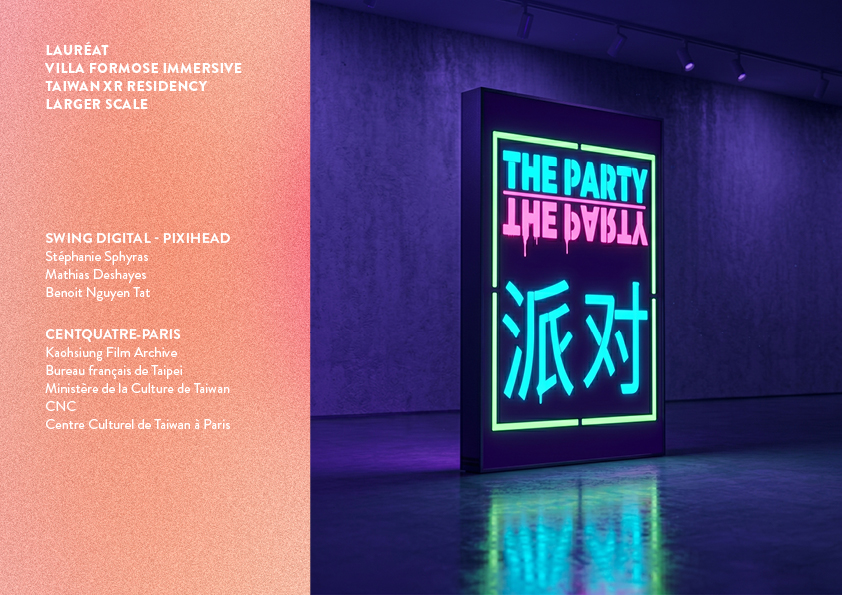
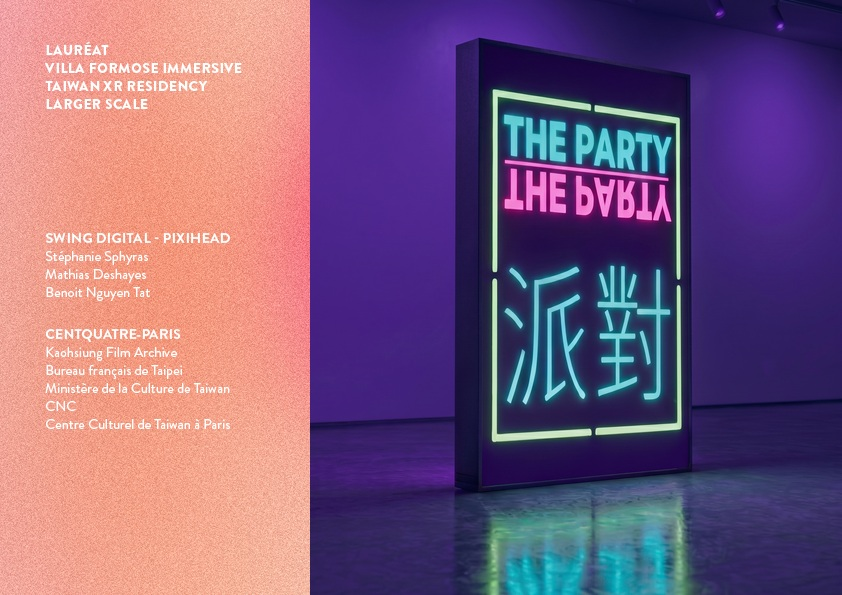
chore(pages): publier la recette depuis main 4e31930

diff --git a/css/style.css b/css/style.css
@@ -4569,6 +4569,9 @@ main > .media-transcript {
     gap: var(--space-sm);
     padding: 0 var(--slide-pad-x) var(--slide-pad-y);
 }
+.page56__content--without-paintings {
+    grid-template-columns: 1fr;
+}
 .page56__paintings {
     display: flex;
     gap: var(--space-sm);
@@ -4602,6 +4605,10 @@ main > .media-transcript {
     margin: 0;
     text-align: left;
     text-transform: none;
+}
+.page56__bio--solo {
+    width: min(100%, 52rem);
+    justify-self: center;
 }
 .page56__bio p:first-child {
     font-size: clamp(1.15rem, 1.75vw, 1.45rem);
@@ -4680,9 +4687,8 @@ main > .media-transcript {
         min-height: 40vh;
     }
 }
-/* Export de la cliente (toulouse-lautrec-2) : galerie justifiee, chaque photo entiere. Les sept photos etaient en
-   object-fit: cover dans des cases egales (22 a 52 % de rognage). La grille compte 600 colonnes fines ; chaque photo
-   en occupe une part proportionnelle a son ratio natif : meme hauteur dans la rangee, rangee pleine largeur. */
+/* Export de la cliente (l1.jpg) : galerie justifiee de six photos entieres. La grille compte 600 colonnes fines ;
+   chaque photo en occupe une part proportionnelle a son ratio natif, sur deux rangees de trois photos. */
 .page54__mosaic {
     flex: none;
     grid-template-columns: repeat(600, minmax(0, 1fr));
@@ -4700,13 +4706,12 @@ main > .media-transcript {
     height: auto;
     object-fit: contain;
 }
-.page54__photo:nth-child(1) { grid-column: span 165; }
-.page54__photo:nth-child(2) { grid-column: span 165; }
-.page54__photo:nth-child(3) { grid-column: span 105; }
-.page54__photo:nth-child(4) { grid-column: span 165; }
-.page54__photo:nth-child(5) { grid-column: span 248; }
-.page54__photo:nth-child(6) { grid-column: span 159; }
-.page54__photo:nth-child(7) { grid-column: span 193; }
+.page54__photo:nth-child(1) { grid-column: span 228; }
+.page54__photo:nth-child(2) { grid-column: span 228; }
+.page54__photo:nth-child(3) { grid-column: span 144; }
+.page54__photo:nth-child(4) { grid-column: span 228; }
+.page54__photo:nth-child(5) { grid-column: span 227; }
+.page54__photo:nth-child(6) { grid-column: span 145; }
 @media (max-width: 768px) {
     .page54__mosaic {
         grid-template-columns: repeat(600, minmax(0, 1fr));
@@ -4716,9 +4721,8 @@ main > .media-transcript {
     .page54__photo:nth-child(2) { grid-column: span 300; }
     .page54__photo:nth-child(3) { grid-column: span 233; }
     .page54__photo:nth-child(4) { grid-column: span 367; }
-    .page54__photo:nth-child(5) { grid-column: span 600; }
-    .page54__photo:nth-child(6) { grid-column: span 271; }
-    .page54__photo:nth-child(7) { grid-column: span 329; }
+    .page54__photo:nth-child(5) { grid-column: span 367; }
+    .page54__photo:nth-child(6) { grid-column: span 233; }
 }
 
 /* ============================================================

diff --git a/the-party.html b/the-party.html
@@ -22,7 +22,7 @@
     <link rel="icon" href="img/favicon.ico?v=20260621-sd">
 
     <!-- Styles -->
-    <link rel="stylesheet" href="css/style.css?v=20260920-t33-transcriptions">
+    <link rel="stylesheet" href="css/style.css?v=20260920-issues39-44">
     <!-- Données structurées SEO/GEO -->
     <script type="application/ld+json">
     {
@@ -194,7 +194,7 @@
 
                 <h2>Pages de présentation</h2>
                 <figure>
-                    <img src="img/pages/the-party/the-party-1.jpg" alt="The Party : page de présentation du projet de réalité mixte et théâtre" width="842" height="595" loading="lazy">
+                    <img src="img/pages/the-party/the-party-1.jpg" alt="The Party : enseigne néon portant l'idéogramme traditionnel, avec le panneau de crédits du projet" width="842" height="595" loading="lazy">
                 </figure>
                 <figure>
                     <img src="img/pages/the-party/the-party-2.jpg" alt="The Party : danseur équipé d'un casque VR dans un montage de six photos au Centquatre-Paris" width="842" height="595" loading="lazy">
@@ -203,7 +203,7 @@
                     <img src="img/pages/the-party/the-party-3.jpg" alt="The Party : univers visuel et dramaturgie immersive" width="842" height="595" loading="lazy">
                 </figure>
                 <figure>
-                    <img src="img/pages/the-party/the-party-4.jpg" alt="The Party : présentation avec légende et crédits de l'image principale" width="842" height="595" loading="lazy">
+                    <img src="img/pages/the-party/the-party-4.jpg" alt="The Party : Polaroid d'une main portant l'idéogramme traditionnel, légendé Kaohsiung - OCT '26" width="842" height="595" loading="lazy">
                 </figure>
             </div>
         </section>

diff --git a/charlotte-henschel.html b/charlotte-henschel.html
@@ -22,7 +22,7 @@
     <link rel="icon" href="img/favicon.ico?v=20260621-sd">
 
     <!-- Styles -->
-    <link rel="stylesheet" href="css/style.css?v=20260920-t33-transcriptions">
+    <link rel="stylesheet" href="css/style.css?v=20260920-issues39-44">
     <!-- Données structurées SEO/GEO -->
     <script type="application/ld+json">
     {
@@ -216,19 +216,8 @@
             <div class="page56__header">
                 <h2 id="page56-title" class="page56__title">Charlotte Henschel<br>Une vie à peindre</h2>
             </div>
-            <div class="page56__content">
-                <div class="page56__paintings" role="region" aria-label="Tableaux de Charlotte Henschel">
-                    <img src="img/pages/page-56/page-56-image-4.jpg" alt="Tableau de Henschel : profil en lignes dorées sur fond noir" class="page56__painting"
-                    width="430" height="521"
-                     loading="lazy">
-                    <img src="img/pages/page-56/page-56-image-2.jpg" alt="Tableau de Henschel : créature fantastique sur fond jaune vif" class="page56__painting"
-                    width="287" height="443"
-                     loading="lazy">
-                    <img src="img/pages/page-56/page-56-image-3.jpg" alt="Tableau de Henschel : formes rouges et noires, croissant blanc" class="page56__painting"
-                    width="464" height="587"
-                     loading="lazy">
-                </div>
-                <div class="page56__bio">
+            <div class="page56__content page56__content--without-paintings">
+                <div class="page56__bio page56__bio--solo">
                     <p>Charlotte a peint<br>
                     plus de 220 tableaux<br>
                     jusqu'à l'âge de 90 ans.</p>

diff --git a/toulouse-lautrec.html b/toulouse-lautrec.html
@@ -22,7 +22,7 @@
     <link rel="icon" href="img/favicon.ico?v=20260621-sd">
 
     <!-- Styles -->
-    <link rel="stylesheet" href="css/style.css?v=20260920-t33-transcriptions">
+    <link rel="stylesheet" href="css/style.css?v=20260920-issues39-44">
     <!-- Données structurées SEO/GEO -->
     <script type="application/ld+json">
     {
@@ -228,8 +228,6 @@
                      loading="lazy" width="1398" height="767"></div>
                 <div class="page54__photo"><img src="img/pages/page-54/page-54-image-6.jpg" alt="Personnage en costume d'époque, hologramme à Montmartre" class="page54__photo-image"
                      loading="lazy" width="895" height="768"></div>
-                <div class="page54__photo"><img src="img/pages/page-54/page-54-image-7.jpg" alt="Visiteurs explorant Montmartre avec casques de RM" class="page54__photo-image"
-                     loading="lazy" width="1813" height="1280"></div>
             </div>
             <!-- Texte descriptif -->
             <div class="page54__text">

diff --git a/404.html b/404.html
@@ -10,7 +10,7 @@
     <link rel="icon" href="img/favicon.ico?v=20260621-sd">
 
     <!-- Styles -->
-    <link rel="stylesheet" href="css/style.css?v=20260920-t33-transcriptions">
+    <link rel="stylesheet" href="css/style.css?v=20260920-issues39-44">
 </head>
 <body data-section="erreur" data-page="404">
     <nav class="skip-links" aria-label="Liens d’évitement">

diff --git a/index.html b/index.html
@@ -25,7 +25,7 @@
     <link rel="preload" href="img/hero/hero-featured-image.jpg" as="image">
 
     <!-- Styles -->
-    <link rel="stylesheet" href="css/style.css?v=20260920-t33-transcriptions">
+    <link rel="stylesheet" href="css/style.css?v=20260920-issues39-44">
     <!-- Données structurées SEO/GEO -->
     <script type="application/ld+json">
     {

diff --git a/dessine-moi-le-vent.html b/dessine-moi-le-vent.html
@@ -22,7 +22,7 @@
     <link rel="icon" href="img/favicon.ico?v=20260621-sd">
 
     <!-- Styles -->
-    <link rel="stylesheet" href="css/style.css?v=20260920-t33-transcriptions">
+    <link rel="stylesheet" href="css/style.css?v=20260920-issues39-44">
     <!-- Données structurées SEO/GEO -->
     <script type="application/ld+json">
     {

diff --git a/espaces-augmentes.html b/espaces-augmentes.html
@@ -22,7 +22,7 @@
     <link rel="icon" href="img/favicon.ico?v=20260621-sd">
 
     <!-- Styles -->
-    <link rel="stylesheet" href="css/style.css?v=20260920-t33-transcriptions">
+    <link rel="stylesheet" href="css/style.css?v=20260920-issues39-44">
     <!-- Données structurées SEO/GEO -->
     <script type="application/ld+json">
     {

diff --git a/experience-monroe.html b/experience-monroe.html
@@ -22,7 +22,7 @@
     <link rel="icon" href="img/favicon.ico?v=20260621-sd">
 
     <!-- Styles -->
-    <link rel="stylesheet" href="css/style.css?v=20260920-t33-transcriptions">
+    <link rel="stylesheet" href="css/style.css?v=20260920-issues39-44">
     <!-- Données structurées SEO/GEO -->
     <script type="application/ld+json">
     {

diff --git a/experiences-series.html b/experiences-series.html
@@ -22,7 +22,7 @@
     <link rel="icon" href="img/favicon.ico?v=20260621-sd">
 
     <!-- Styles -->
-    <link rel="stylesheet" href="css/style.css?v=20260920-t33-transcriptions">
+    <link rel="stylesheet" href="css/style.css?v=20260920-issues39-44">
     <!-- Données structurées SEO/GEO -->
     <script type="application/ld+json">
     {

diff --git a/films.html b/films.html
@@ -22,7 +22,7 @@
     <link rel="icon" href="img/favicon.ico?v=20260621-sd">
 
     <!-- Styles -->
-    <link rel="stylesheet" href="css/style.css?v=20260920-t33-transcriptions">
+    <link rel="stylesheet" href="css/style.css?v=20260920-issues39-44">
     <!-- Données structurées SEO/GEO -->
     <script type="application/ld+json">
     {

diff --git a/marilyn.html b/marilyn.html
@@ -22,7 +22,7 @@
     <link rel="icon" href="img/favicon.ico?v=20260621-sd">
 
     <!-- Styles -->
-    <link rel="stylesheet" href="css/style.css?v=20260920-t33-transcriptions">
+    <link rel="stylesheet" href="css/style.css?v=20260920-issues39-44">
     <!-- Données structurées SEO/GEO -->
     <script type="application/ld+json">
     {
